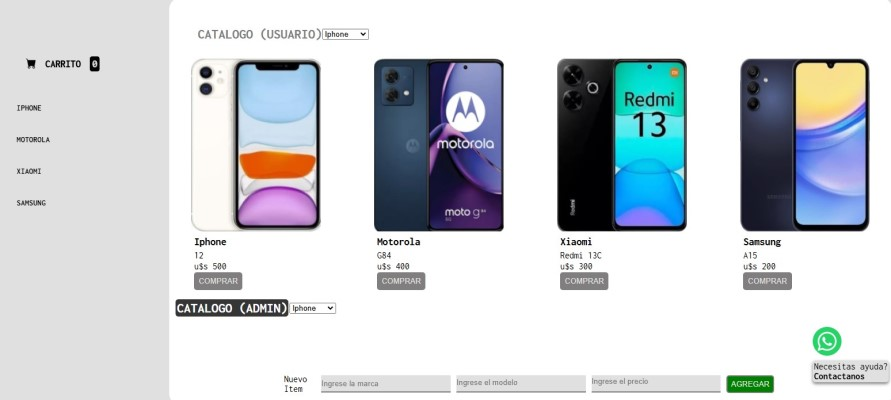
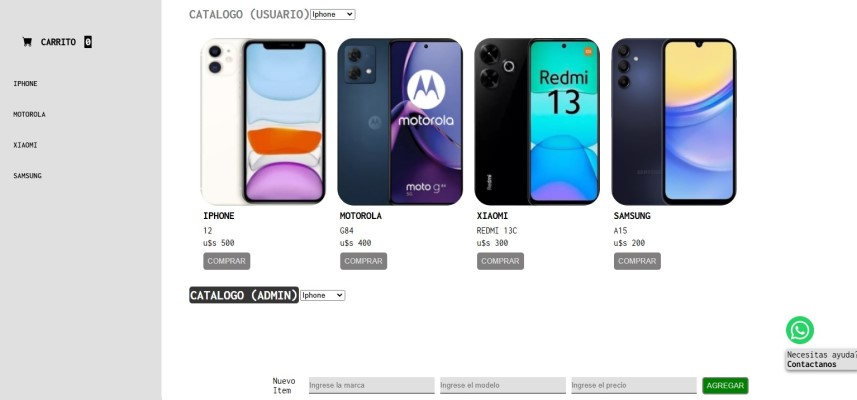
cambie valor a dolares en catalogo.js y subi dos nuevas imagenes

diff --git a/Js/catalogo.js b/Js/catalogo.js
@@ -78,7 +78,7 @@ function mostrarProductos() {
         card.innerHTML = `<img class="productoImagen" src="../assets/images/iphone_imagen.jpg" alt="imagen de un iphone">
                           <h3 class="modelo">${producto.marca}</h3>
                           <p class="modelo">${producto.modelo}</p>
-                          <p class="precio">$${producto.precio}</p>
+                          <p class="precio">u$s ${producto.precio}</p>
                           <button class="agregar">Comprar</button>
                           <button class="botonEliminar">Eliminar Item</button>`;                 
         catalogoCard.appendChild(card);
